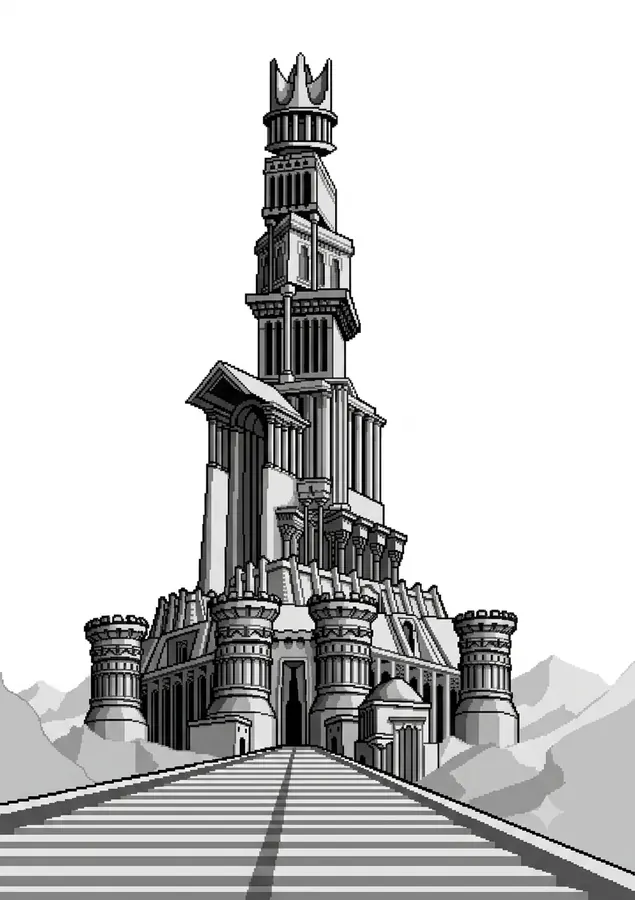
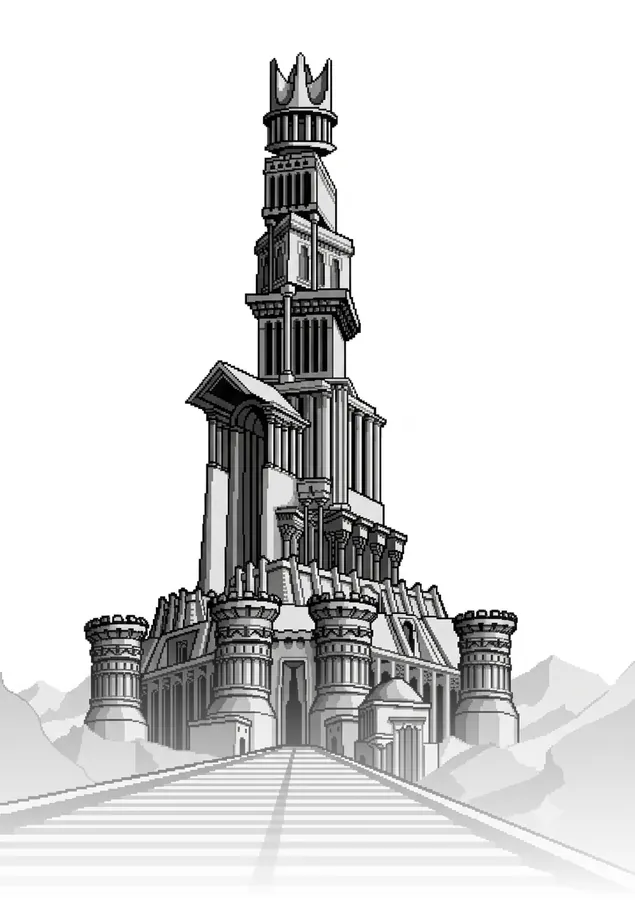
feat: bake edge fade into home drawing, theme-swapped versions
- Replaced the CSS radial mask with a baked-in edge fade (left/right/
  bottom) so the drawing blends seamlessly into the page color.
- Light version (home-bg.webp): edges faded to white.
- Dark version (home-bg-dark.webp): inverted art with edges faded to the
  site's dark paper (#101010).
- Both <img>s are rendered and swapped via :root[data-theme] so there's
  no JS and no FOUC.

Changed region(s): [[0.0, 0.7156, 1.0, 1.0]]

diff --git a/src/styles/global.css b/src/styles/global.css
@@ -721,9 +721,6 @@ body.home-page .page-main { max-width: none; padding: 0; }
   width: auto;
   max-width: 100%;
   object-fit: contain;
-  /* Fade the drawing's edges into the surrounding page color */
-  -webkit-mask-image: radial-gradient(ellipse 100% 100% at 50% 50%, #000 60%, transparent 98%);
-  mask-image: radial-gradient(ellipse 100% 100% at 50% 50%, #000 60%, transparent 98%);
   opacity: 0;
   transform: translateY(14px);
   animation: homeArt 1.1s var(--ease-decel) 500ms forwards;
@@ -731,8 +728,11 @@ body.home-page .page-main { max-width: none; padding: 0; }
 @keyframes homeArt {
   to { opacity: 1; transform: translateY(0); }
 }
-/* Invert the drawing so it blends into the dark paper in dark mode */
-:root[data-theme="dark"] .home-hero-art { filter: invert(1); }
+/* The edge fade is baked into the images (white for light, dark paper for
+   dark). Swap which one shows based on the active theme. */
+.home-hero-art--dark { display: none; }
+:root[data-theme="dark"] .home-hero-art--light { display: none; }
+:root[data-theme="dark"] .home-hero-art--dark { display: block; }
 
 @media (prefers-reduced-motion: reduce) {
   .home-hero-content, .home-hero-art { animation: none; opacity: 1; transform: none; }
